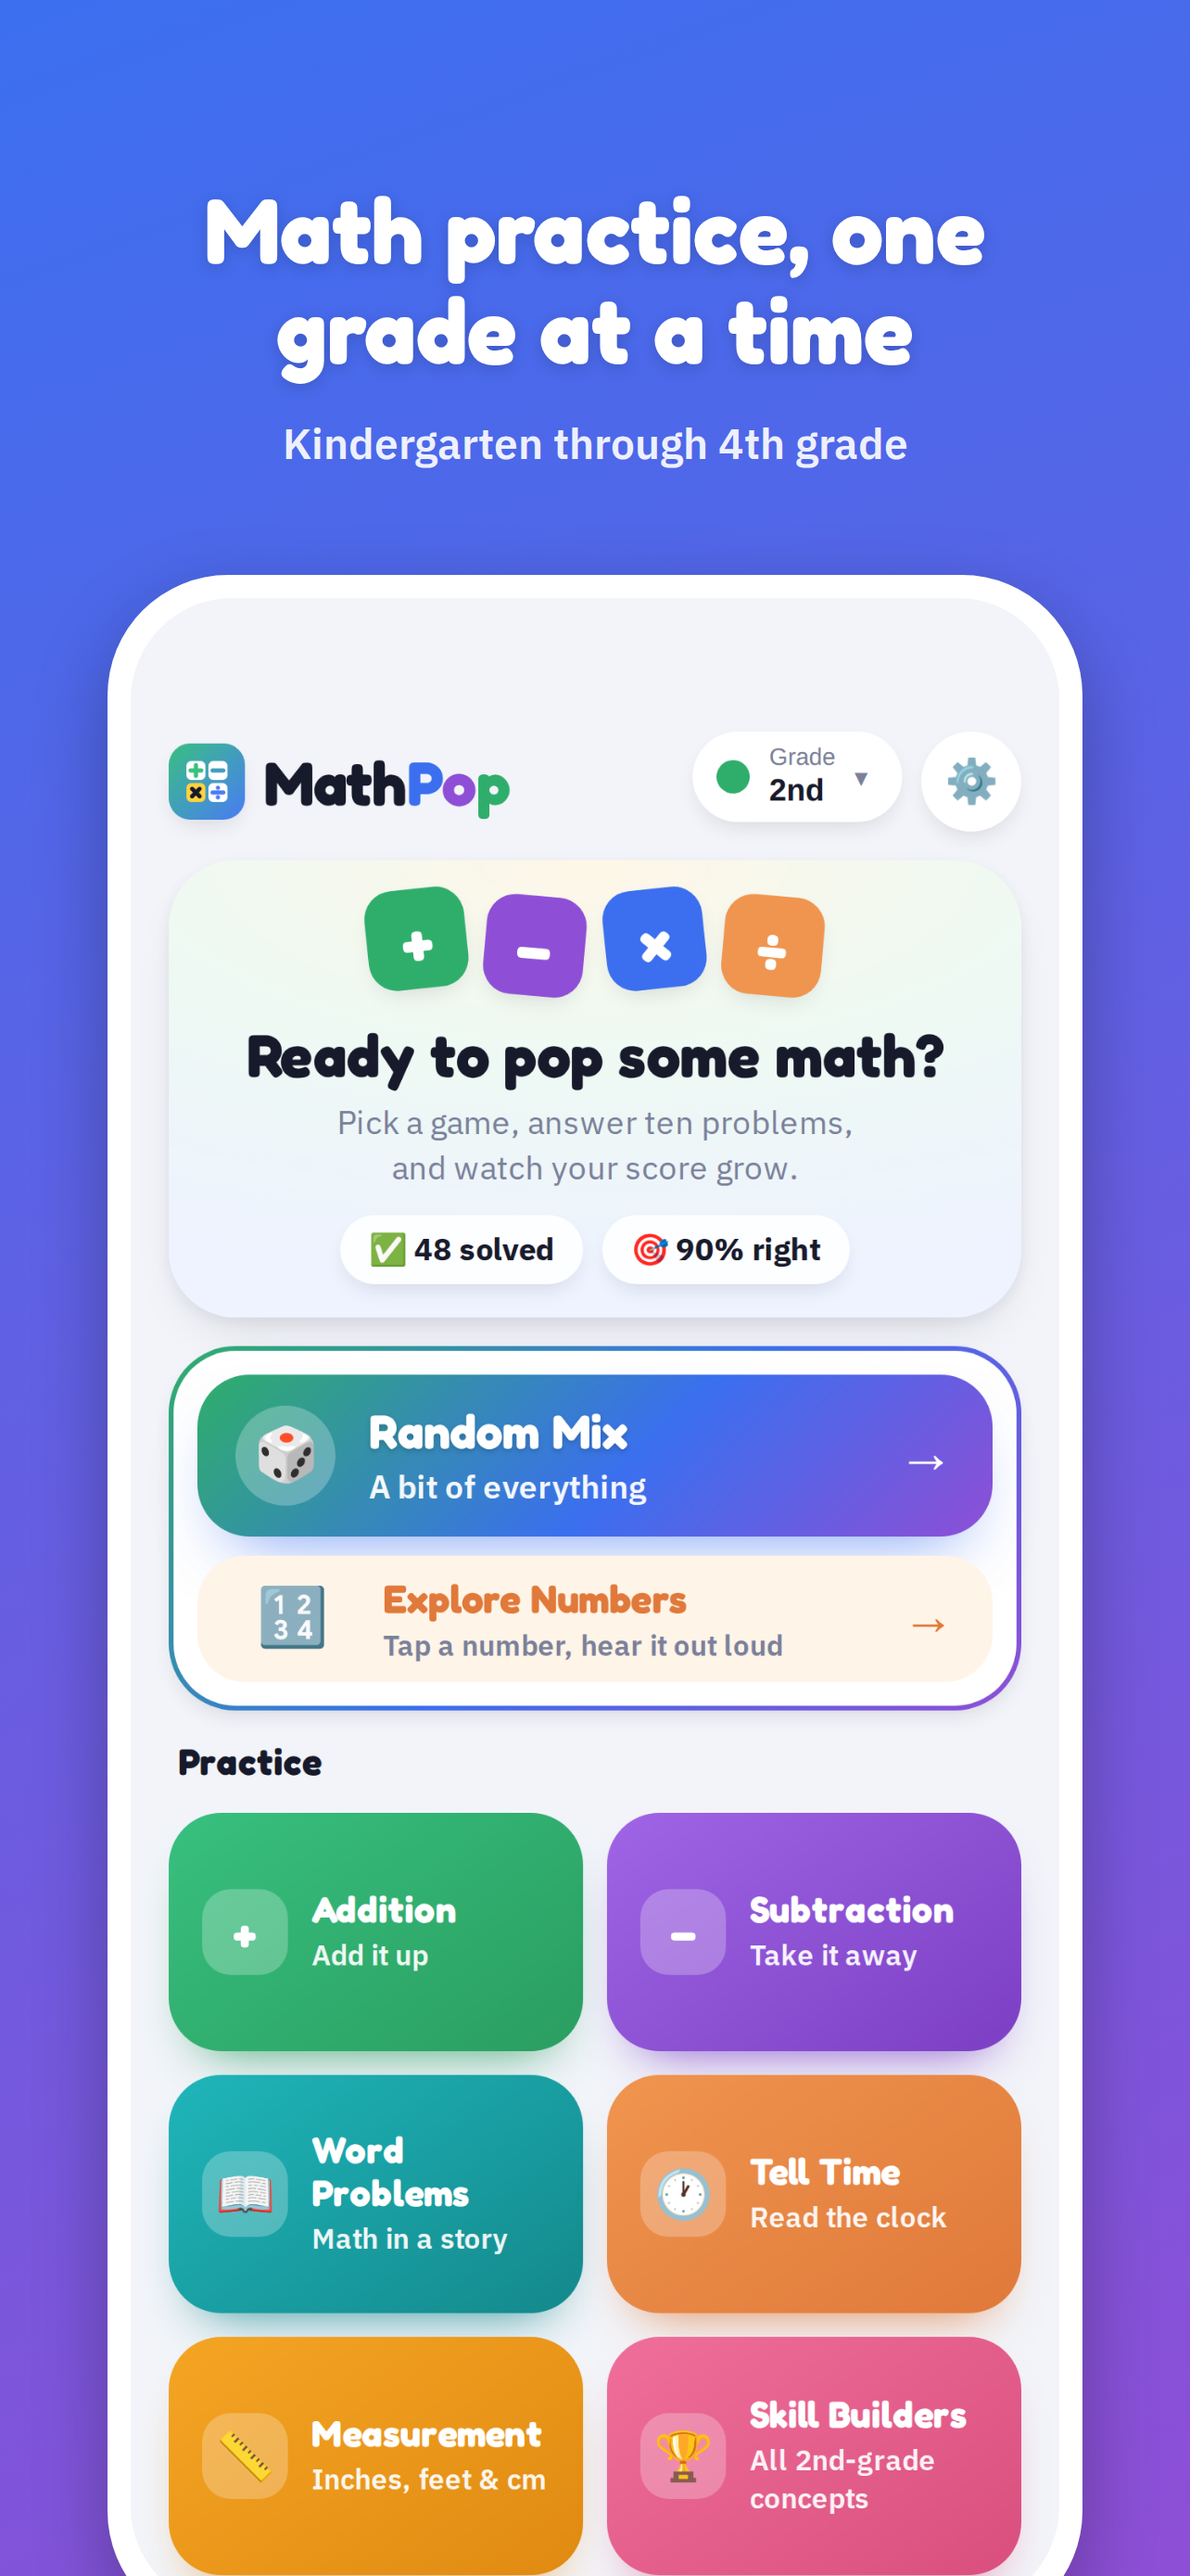
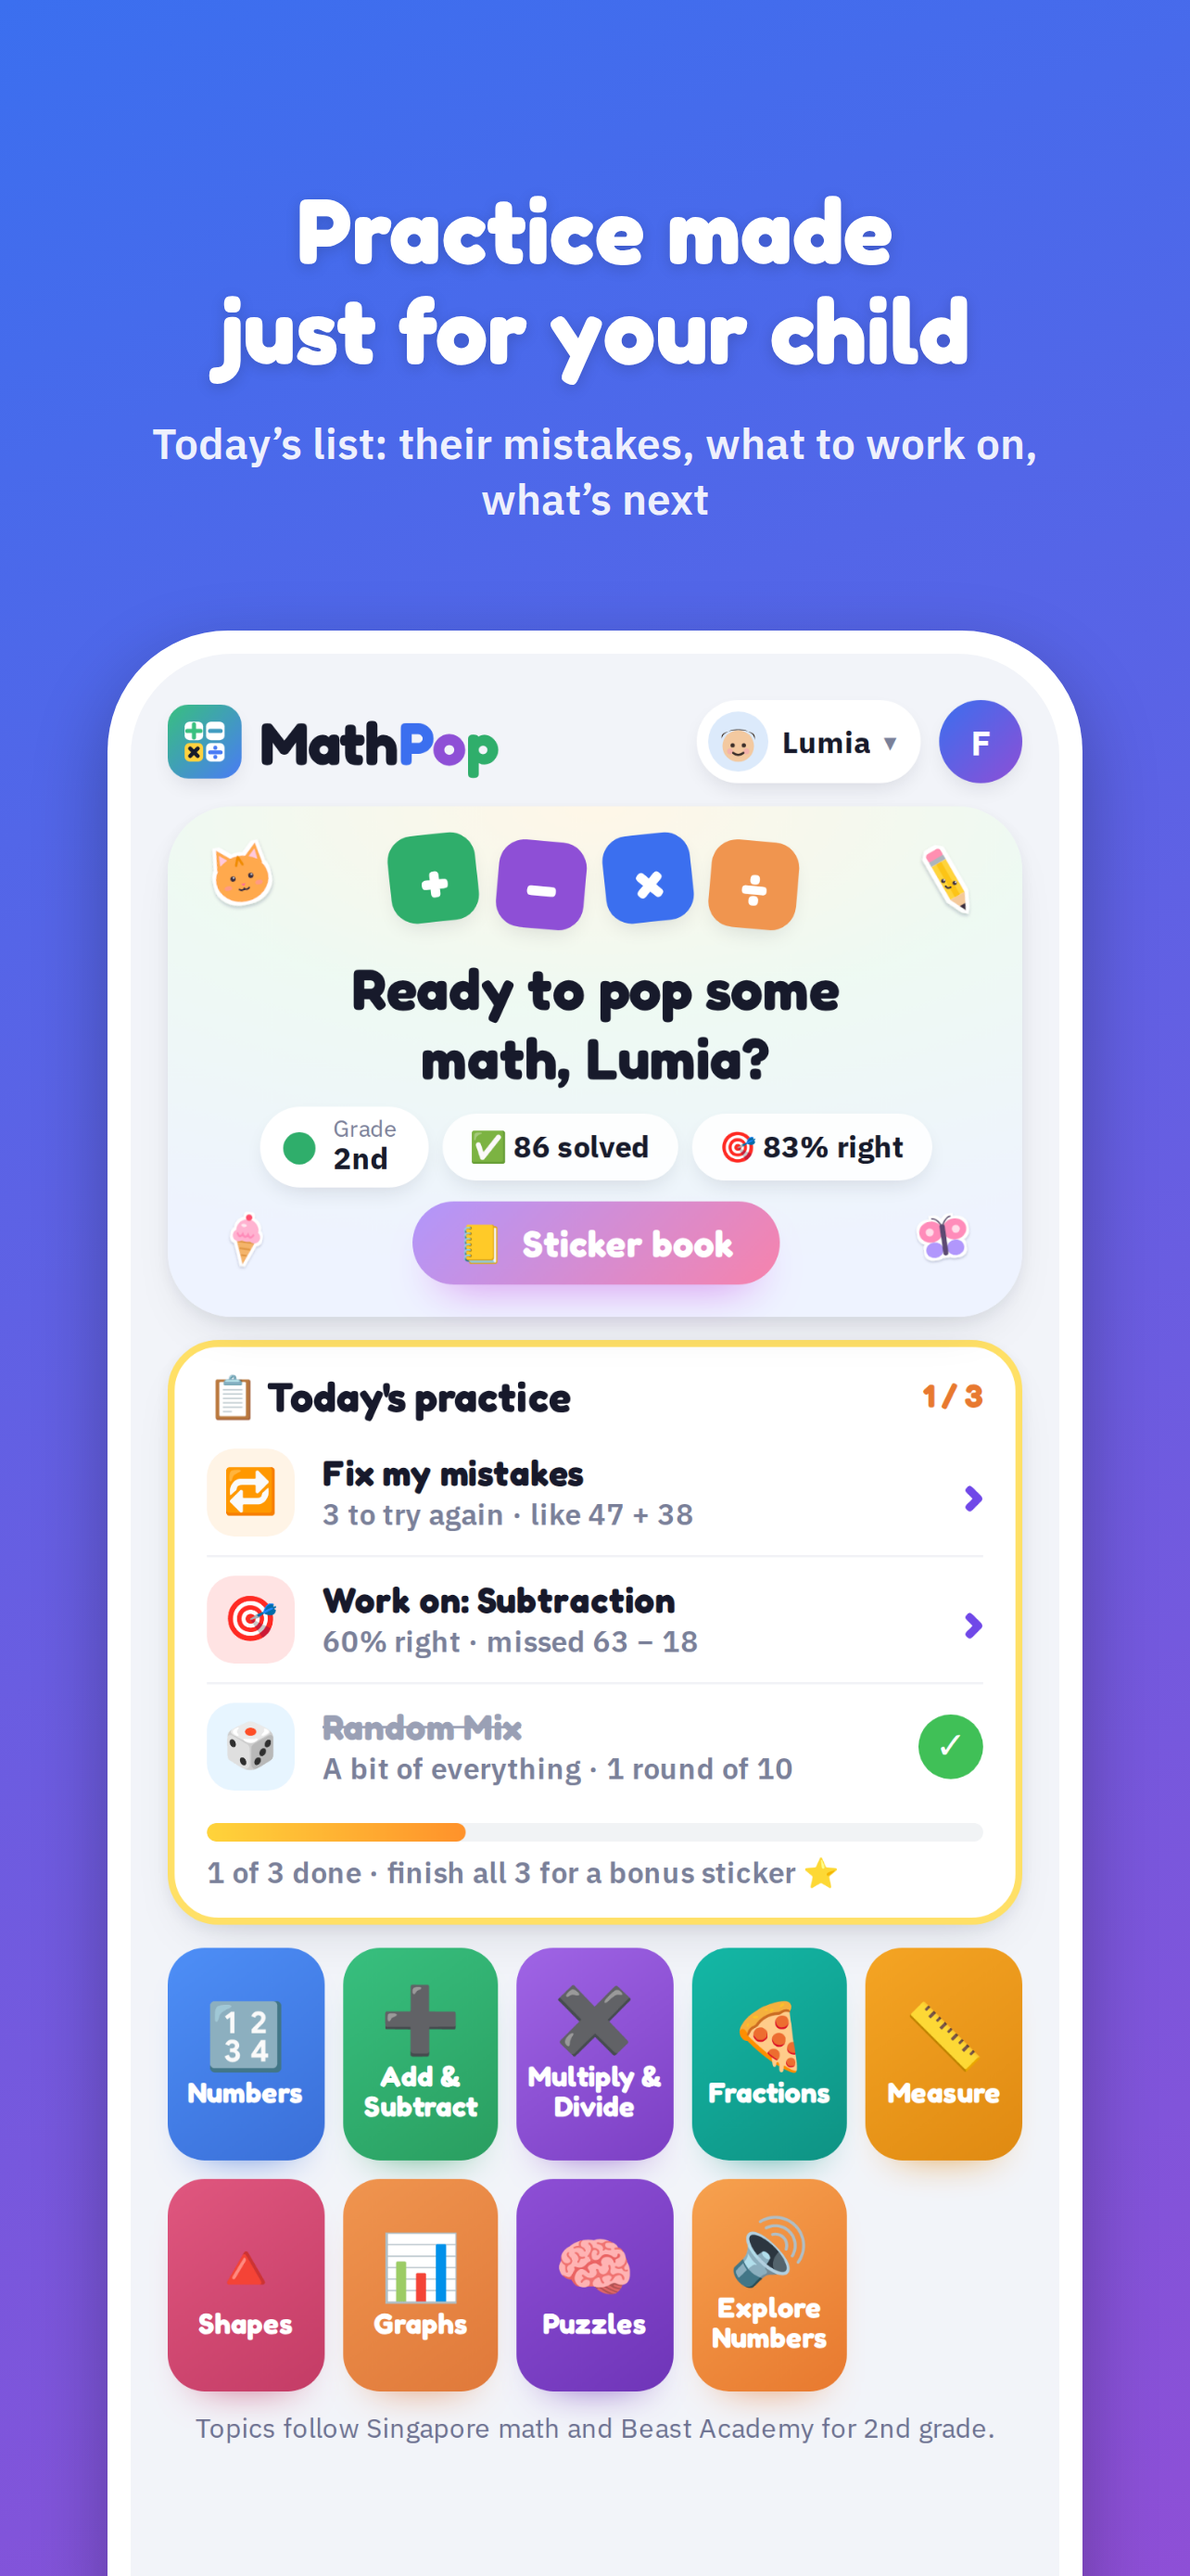
New App Store screenshots and listing text
Six new screenshots at 6.3, 6.5 and 6.9 inches, from the current app:
Today's practice, Show me how, All done with a sticker to pick, the sticker
book, a picture problem and Explore Numbers in Spanish. The description,
promotional text and review notes now cover Today's practice, Show me how,
stickers, per-player answer settings and the 23 languages.

Claude-Session: https://claude.ai/code/session_01DEQfFfTDNsNmgFS37ru4T2

diff --git a/appstore/listing.md b/appstore/listing.md
@@ -10,30 +10,36 @@ MathPop: Kids Math Practice
 Pre-K to 4th grade math games
 
 ## Promotional text (170, can change anytime without review)
-Pick a grade, pick a game, and answer ten quick problems. Cheers for every right answer, and the full equation when it's wrong.
+A daily practice list made from your child's own mistakes, every problem explained out loud, and a sticker for every round. Pre-K to 4th grade.
 
 ## Description (4000)
-MathPop is a bright, simple math practice game for Pre-K through 4th grade. Pick a grade and MathPop shows the games that fit it, from adding within 10 all the way up to times tables and three-digit numbers.
+MathPop is a bright, simple math practice game for Pre-K through 4th grade. Each child plays at their own grade, with games that follow Singapore math and Beast Academy, from counting to 10 all the way up to fractions, times tables and big numbers.
 
-HOW IT WORKS
-• Choose a grade: Pre-K, Kindergarten, 1st, 2nd, 3rd or 4th
-• Pick a game and answer ten quick problems
-• Tap an answer, type it, or write it with your finger
-• Get a cheer for every right answer, and the full equation when it's wrong
+TODAY'S PRACTICE, MADE FOR YOUR CHILD
+• Fix my mistakes: the very problems they got wrong, asked again until they get them right
+• Work on: the topic they find hardest, with a problem they missed
+• Something new: the next topic for their grade
+• Finish all three for a bonus sticker
+
+STUCK? MATHPOP SHOWS HOW
+• Tap Show me how and MathPop talks your child through the problem out loud, step by step, like a grown-up sitting next to them
+• Making ten, tens and ones, skip counting, number bonds, bar models, reading a clock and more
+• Great for kids who can't read yet: every problem and every step is read aloud
+• A wrong answer never gives the answer away: it's "Try again"
+
+STICKERS FOR EVERY ROUND
+• Finish ten problems, pick a sticker, and watch it fly into your sticker book
+• Tap a sticker and it jumps and does its own little move
 
 GAMES FOR EVERY GRADE
-• Addition, Subtraction and Multiplication, with numbers sized for the grade
-• Word Problems: math in a short story, read out loud
-• Tell Time: read the clock, from o'clock to five-minute steps
-• Comparing, Make a Ten, Place Value, Measurement, Stack & Solve, Big Numbers and Multi-Step problems
-• Random Mix: a bit of everything
-• Explore Numbers: tap a number and hear it in English, Japanese, Cantonese or Mandarin
+• Numbers, Add & Subtract, Multiply & Divide, Fractions, Measurement, Shapes, Graphs and Puzzles
+• Word problems, telling time, money, place value and more, with pictures to help
+• Answer by tapping, typing or writing with your finger (set for each child)
+• Explore Numbers: tap a number and hear it in 23 languages, from Spanish and French to Japanese, Korean and Hindi
 
 MADE TO BE SIMPLE
-• Every problem can be read aloud by a friendly voice built into the app
-• Works offline
-• See how many problems were solved and how many were right
-• Add a player for each child, each with their own grade
+• A friendly voice built into the app, works offline
+• A player for each child, each with their own grade
 
 FAMILY ACCOUNT (OPTIONAL)
 Kids can play right away with no sign-in. Grown-ups can create a free family account to keep players and grades in sync across devices. The same account works in PitchPop.
@@ -65,8 +71,9 @@ math,addition,subtraction,multiplication,times tables,tell time,kindergarten,fir
   description and screenshots.
 
 ## Screenshots
-Six per size, in this order: home, a problem, a right answer, Tell Time,
-a word problem, Explore Numbers.
+Six per size, in this order: home (Today's practice), Show me how, All
+done with a sticker to pick, the sticker book, a picture problem
+(fractions), Explore Numbers in Spanish.
 - `screenshots/6.3-inch/` — 1206×2622, for the "iPhone with Dynamic Island (medium display)" slot (required).
 - `screenshots/6.5-inch/` — 1284×2778, for the "iPhone 6.5" Display" slot.
 - `screenshots/6.9-inch/` — 1320×2868, for the "iPhone 6.9" Display" slot if

diff --git a/appstore/review-notes.md b/appstore/review-notes.md
@@ -11,13 +11,15 @@ Kids category (ages 6–8). Kids can play without signing in; the family
 account is optional and only for grown-ups.
 
 How to use it:
-- Choose a grade with the "Grade" button at the top of the home page. The
-  topic cards change to fit that grade.
-- Tap any card to start a round of ten problems. Answer by tapping a choice,
-  typing, or writing the number with a finger (⚙ Settings on the home page
-  switches between these). Tap the problem to hear it read aloud.
-- Explore Numbers lets the child tap numbers and hear each one in English,
-  Japanese, Cantonese or Mandarin.
+- Each player's grade and how they answer (tap a choice, type, or write
+  with a finger) are set in Players & grades, from the player button at the
+  top. The home page shows a "Today's practice" list (mistakes to fix, a
+  topic to work on, something new) and a tile for each section.
+- Tap any item or topic to start a round of ten problems. Tap the problem
+  to hear it read aloud; "Show me how" talks the child through it step by
+  step. Each finished round earns a sticker for the sticker book.
+- Explore Numbers lets the child tap numbers and hear each one in 23
+  languages, using the iPhone's built-in voices.
 
 Family account (optional):
 - Tap "Sign in or create account" at the top right, then sign in with the
